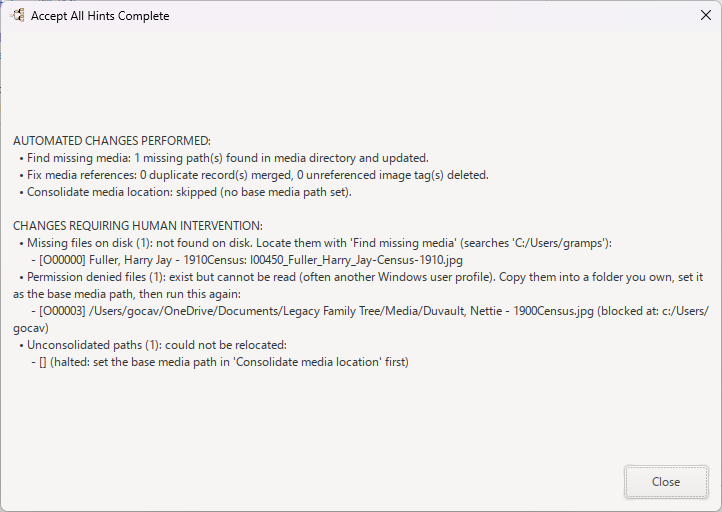
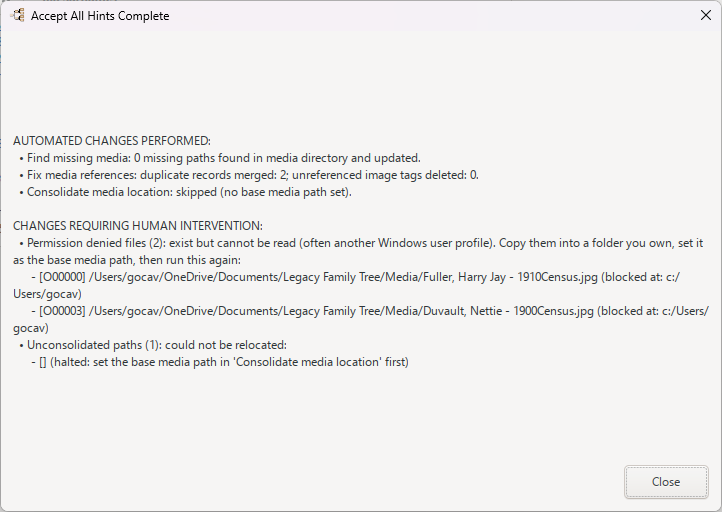
Updated images after AI prompt ran

Changed region(s): [[0.0, 0.4688, 0.9751, 0.5938], [0.1828, 0.2812, 0.6704, 0.375]]

diff --git a/featuredocs/README_gwizard_mediafix.md b/featuredocs/README_gwizard_mediafix.md
@@ -5,96 +5,119 @@ The **GWizard Media Fix** tool helps genealogists clean up media files attached 
 ## Usage
 
 1. Open Gramps and load the Family Tree you want to work on.
-2. Choose **Tools &rarr; Family Tree Processing &rarr; GWizard Media Fix**.
-   ![Open GWizard Media Fix from the Tools menu](images/gwizard_mediafix-main-menu.png)
-3. The **GWizard Media Fix** dialog opens. Choose one of the following actions:
-   * **Generate report** – writes a plain-text report (`GWizardMediaFixReport.txt`) listing missing files, permission problems, absolute paths, non-standard filenames, duplicate references, and unreferenced files.
-   * **Find missing media** – lists media records whose files are not present on disk, suggests matches found in the media base folder, and lets you type or browse to a new path for each.
-   * **Fix media references** – reviews media files shared by multiple records (duplicates) and image tags with no database references, then lets you merge, create copies, or delete records.
-   * **Consolidate media location** – moves or copies media files into the base media directory and renames them using the selected naming template.
-   * **Clean import notes** – removes stale "Records not imported into OBJE" notes left by a Legacy import after the matching media files have been restored.
-   * **Accept all hints** – runs the find-missing, fix-references, and consolidate steps automatically, showing a preview report before applying changes.
-   ![GWizard Media Fix main dialog](images/gwizard_mediafix-main.png)
-4. For most actions, review the preview table, edit any suggested paths as needed, then click **Apply** (or **Accept hints**) to write changes to the database and move or copy the actual files on disk.
-5. When finished, click **_Close** to return to Gramps.
+2. Choose **Tools → Family Tree Processing → GWizard Media Fix**.
+3. The **GWizard Media Fix** dialog opens. It shows one button for each task, plus **Accept all hints** in the action area and **Close** at the bottom right:
+   * **Generate report** — writes a plain-text report listing missing files, permission problems, absolute paths, non-standard filenames, duplicate references, and unreferenced files.
+   * **Find missing media** — lists media records whose files are missing on disk and suggests replacement paths found in the media base folder.
+   * **Fix media references** — reviews media files shared by multiple records and image tags with no database references; lets you merge, create copies, or delete records.
+   * **Consolidate media location** — moves or copies media files into the base media directory using the chosen naming template.
+   * **Clean import notes** — removes stale "Records not imported into OBJE" notes left by a Legacy import.
+   * **Undo last file moves** — reverses the file operations from the last consolidate run.
+   * **Accept all hints** — runs find-missing, fix-references, and consolidate automatically, showing a preview report before applying changes.
+4. Click the button for the task you want to run, then follow the steps in that button's section below.
+5. When you are finished, click **Close** to return to Gramps.
+
+### Generate report
+
+1. From the main dialog, click **Generate report**.
+2. The **Save Media Fix Report** file chooser opens, pre-named `GWizardMediaFixReport.txt` and pointing at the media base folder. Choose the folder and filename, then click **Save**.
+   ![Save Media Fix Report: choose the folder and filename for the report](images/gwizard_mediafix-report-save.png)
+3. The report is written and the **GWizard Media Fix Report** viewer opens showing the full text.
+   ![GWizard Media Fix Report: review the generated plain-text report listing all media issues](images/gwizard_mediafix-report.png)
+4. Close the viewer to return to the main dialog.
 
 ### Find missing media
 
 1. From the main dialog, click **Find missing media**.
-2. The **Find Missing Media** dialog lists each missing media record with its current path and a hint (for example, "Found in media directory: suggest ..." or "Permission denied: ...").
-3. Verify or edit the **New Path** for each record, or click **Accept hints (N)** to fill in the suggested paths automatically.
-4. To restore a file from another folder, click **Copy from folder...**, select the source folder, then click **Apply** to copy the file into the media directory and update the record.
-5. Click **Apply**, then **_Close**.
-   ![Find missing media dialog](images/gwizard_mediafix-find-missing.png)
+2. The **Find Missing Media** dialog opens. It lists each media record whose file is missing on disk, with its current path and a hint (for example, a suggested match found in the media base folder, or "Permission denied").
+   ![Find Missing Media: review each missing record and its suggested replacement path](images/gwizard_mediafix-find-missing.png)
+3. Verify or edit the **New Path** for each record. To restore a file from another folder, click **Copy from folder...**, choose the source folder in the **Select folder containing the missing files** chooser, and review the queued copies.
+4. To fill in all suggested paths at once, click **Accept hints (N)** (N is the number of hinted items).
+5. Click **Apply** to update the database and copy the files into the media directory. A **Media Paths Updated** message confirms the result.
+6. Click **Close** to close the dialog.
 
 ### Fix media references
 
 1. From the main dialog, click **Fix media references**.
-2. The **Fix Media References** dialog shows groups where a single media file is shared by multiple media records, plus image tags with no data references in the database.
-3. For each group, choose a resolution: **Merge** (combine duplicate media records into one keeper), **Create copies** (give each reference its own file), or **Delete** (remove unreferenced media records).
-4. Click **Accept hints (N)** to apply the suggested resolutions, then **Apply** to write the changes.
-5. Click **_Close** when done.
-   ![Fix media references dialog](images/gwizard_mediafix-fix-references.png)
+2. The **Fix Media References** dialog opens. It shows groups where a single media file is shared by multiple media records, plus image tags with no data references in the database.
+   ![Fix Media References: pick Merge, Create copies, or Delete for each duplicate or unreferenced record](images/gwizard_mediafix-fix-references.png)
+3. For each group, choose a resolution: **Merge** (combine duplicate media records into one keeper), **Create copies** (give each reference its own file), or **Delete** (remove unreferenced media records). Media tagged **GWizard: Locked** is skipped.
+4. Click **Accept hints (N)** to apply the suggested resolutions for all groups.
+5. Click **Apply** to write the changes. A **Media References Resolved** message summarizes what was merged, copied, or deleted.
+6. Click **Close** when done.
 
 ### Consolidate media location
 
 1. From the main dialog, click **Consolidate media location**.
-   *Note: If duplicate media references exist, you are prompted to resolve them with **Fix media references** first.*
-2. In the **Consolidate Media Location** dialog, confirm the **Base media path** (browse with the folder button if needed).
-3. Choose a **Naming Template** from the list, or type a custom pattern in the entry field.
-4. Choose the **Naming style**: **Use naming standard** (applies the template) or **Keep original filename**.
-5. Choose the **File operation**: **Move files** (renames the original file) or **Make a copy** (leaves the original untouched).
-6. Click **Accept hints (N)** to populate suggested new paths, review the table, then click **Apply** to move or copy the files and update the database records.
-7. Click **_Close** when done.
-   ![Consolidate media location dialog](images/gwizard_mediafix-consolidate.png)
 
-### Generate a report
+2. The **Consolidate Media Location** dialog opens. Each row shows a media record whose path is not yet consolidated, with a suggested path inside the base media directory.
+   ![Consolidate Media Location: set the base media path, naming template, and file operation](images/gwizard_mediafix-consolidate.png)
+3. Set the options:
+   * **Base media path** — type or browse (folder button opens the **Select media directory** chooser) for the folder Gramps uses for relative media paths. The current value is also shown as a read-only **Media Base Path** label.
+   * **Naming Template** — choose from the combo presets: Reference ID + Community Standard, Community Standard, Reference ID + Document Type, Media ID + Document Type, Media ID + Original Name, Sanitized Original Name, or Community Standard + content hash.
+   * **Naming style** — **Use naming standard** (default) or **Keep original filename**.
+   * **File operation** — **Move files** (default) or **Make a copy**.
+4. Verify or edit the suggested path for each record, or click **Accept hints (N)** to fill in all suggested paths at once.
+5. Click **Apply** to move or copy the files and update the database. A **Media Locations Consolidated** message confirms the result. Files are logged so they can be undone later with **Undo last file moves**.
+6. Click **Close** when done.
 
-1. From the main dialog, click **Generate report**.
-2. A file chooser opens; the default name is `GWizardMediaFixReport.txt`. Choose a location and save the report.
-3. Review the report for items requiring human intervention, such as missing files, permission problems, or unconsolidated paths.
-   ![Generated report](images/gwizard_mediafix-report.png)
+### Clean import notes
+
+1. From the main dialog, click **Clean import notes**.
+2. The **Clean import notes** confirmation dialog opens, listing leftover "Records not imported into OBJE" notes whose media files are now readable.
+   ![Clean import notes: confirm deletion of leftover import-failure notes](images/gwizard_mediafix-clean-import-notes.png)
+3. Click **Delete** to remove the notes (this can be undone with Edit → Undo), or **Cancel** to keep them.
+4. If there are no such notes, a **No stale import notes** message appears instead. Otherwise an **Import notes cleaned** message confirms how many notes were removed.
+
+### Undo last file moves
+
+1. From the main dialog, click **Undo last file moves**.
+2. The **Undo last file moves** confirmation dialog opens, showing the last logged file-move run. Click **Undo moves** to move the files back and repoint the media records, or **Cancel** to abort. Records changed since the run, or locked files, are left alone and listed.
+3. A **File moves undone** message confirms how many files were moved back and records repointed.
+4. If no logged file moves exist, a **No file moves to undo** message appears instead.
+
+### Accept all hints
+
+1. From the main dialog, click **Accept all hints**.
+2. The tool plans the automatic fixes across the find-missing, fix-references, and consolidate steps.
+3. The **Accept all hints - preview** dialog opens showing the planned changes. Review the list, then click **Accept all** to proceed, or **Cancel** to abort.
+   ![Accept all hints - preview: review the planned automatic changes before accepting](images/gwizard_mediafix-accept-all-hints.png)
+4. The fixes run automatically: missing paths are filled, duplicate references are merged or deleted, and media locations are consolidated.
+5. The **Accept All Hints Complete** report opens, summarizing the changes performed and listing any items that still require human intervention (for example, missing files not found, permission-denied files, or unconsolidated paths). It also notes optional stale import notes that can be removed with **Clean import notes**.
+   ![Accept All Hints Complete: summary of automated changes and items needing human intervention](images/gwizard_mediafix-accept-all-hints-complete.png)
+6. Close the report to return to the main dialog.
 
 ## Configure Options
 
-The tool has no separate persistent options window; its controls appear within each sub-dialog:
+The tool has no separate persistent options window; its controls appear in the main window and each sub-dialog:
 
-* **Base media path** – a text entry (with a folder browse button) showing the folder Gramps uses for relative media paths. Appears in the **Find Missing Media** and **Consolidate Media Location** dialogs; the current media base path is also shown as a read-only **Media Base Path** label.
-* **Naming Template** – a combo box with an entry field offering these presets (in the **Consolidate Media Location** dialog):
-  * `{ref_id}_{surname}_{given}-{doc_type}-{year}.{ext}` — Reference ID + Community Standard
-  * `{surname}_{given}-{doc_type}-{year}.{ext}` — Community Standard
-  * `{ref_id}_{doc_type}-{year}.{ext}` — Reference ID + Document Type
-  * `{id}_{doc_type}-{year}.{ext}` — Media ID + Document Type
-  * `{id}_{orig}.{ext}` — Media ID + Original Name
-  * `{orig}.{ext}` — Sanitized Original Name
-  * `{ref_id}_{surname}_{given}-{doc_type}-{year}-{hash}.{ext}` — Community Standard + content hash (never clashes for different files)
-  * Template tokens: `{ref_id}` (reference ID), `{surname}`/`{given}` (linked person's name), `{doc_type}` (media description/type), `{year}` (extracted year), `{orig}` (original filename), `{ext}` (file extension), `{hash}` (short content hash).
-* **Naming style** – radio buttons **Use naming standard** (default) or **Keep original filename**.
-* **File operation** – radio buttons **Move files** (default) or **Make a copy**.
-* **Accept hints (N)** – applies the suggested fixes for all listed items (N is the count of hinted items).
-* **Apply** – writes the reviewed changes to the database and moves/copies files on disk.
-* **Copy from folder...** – in **Find Missing Media**, selects a source folder to restore a missing file from.
-* Per-record resolution in **Fix Media References** – **Merge**, **Create copies**, or **Delete** for each duplicate or unreferenced media record.
-* **_Close** – closes the current dialog.
+* **Generate report, Find missing media, Fix media references, Consolidate media location, Clean import notes, Undo last file moves** — task buttons on the **GWizard Media Fix** main window (one per task).
+* **Accept all hints** — action-area button on the main window that runs the find-missing, fix-references, and consolidate steps automatically with a preview first.
+* **Base media path** — text entry with a folder button opening the **Select media directory** chooser, plus a read-only **Media Base Path** label. Appears in **Find Missing Media** and **Consolidate Media Location**; the changed path is committed to the database when **Apply** is pressed.
+* **Naming Template** — combo box with entry offering these presets (in **Consolidate Media Location**):
+  * Reference ID + Community Standard — `{ref_id}_{surname}_{given}-{doc_type}-{year}.{ext}`
+  * Community Standard — `{surname}_{given}-{doc_type}-{year}.{ext}`
+  * Reference ID + Document Type — `{ref_id}_{doc_type}-{year}.{ext}`
+  * Media ID + Document Type — `{id}_{doc_type}-{year}.{ext}`
+  * Media ID + Original Name — `{id}_{orig}.{ext}`
+  * Sanitized Original Name — `{orig}.{ext}`
+  * Community Standard + content hash — `{ref_id}_{surname}_{given}-{doc_type}-{year}-{hash}.{ext}`
+  Template tokens: `{ref_id}` (reference ID), `{surname}`/`{given}` (linked person's name), `{doc_type}` (media description or type), `{year}` (extracted year), `{orig}` (original filename), `{ext}` (file extension), `{hash}` (short content hash).
+* **Naming style** — radio buttons **Use naming standard** (default) or **Keep original filename** (in **Consolidate Media Location**).
+* **File operation** — radio buttons **Move files** (default) or **Make a copy** (in **Consolidate Media Location**).
+* **Accept hints (N)** — applies the suggested fixes for all listed items at once (N is the count of hinted items). Appears in **Find Missing Media**, **Fix Media References**, and **Consolidate Media Location**.
+* **Apply** — writes the reviewed changes to the database and moves/copies the actual files on disk (in **Find Missing Media**, **Fix Media References**, and **Consolidate Media Location**).
+* **Copy from folder...** — in **Find Missing Media**, selects a source folder to restore missing files by filename; copies are queued until **Apply** is pressed.
+* **Per-record resolution** — in **Fix Media References**, choose **Merge**, **Create copies**, or **Delete** for each duplicate or unreferenced media record using the row selector.
+* **Close** — closes the current dialog.
 
 ## Features
 
-* **Detect missing media** – finds media records whose files cannot be located on disk and suggests possible matches in the media base folder.
-* **Resolve duplicate references** – merges duplicate media records that share the same file, creates separate copies for each reference, or deletes unreferenced media records. Locked media (tagged **GWizard: Locked**) is skipped.
-* **Consolidate media locations** – moves or copies all media files into the configured base directory, applying a consistent, safe filename from the chosen naming template.
-* **Generate a comprehensive report** – produces a human-readable summary of all media issues, including missing files, permission problems, absolute paths, non-standard filenames, duplicate references, unconsolidated paths, and unreferenced files on disk.
-* **Automated "Accept all hints"** – runs the find-missing, fix-references, and consolidate steps in sequence, with a preview report listing any items that still require human intervention.
-* **Clean stale import notes** – removes "Records not imported into OBJE" notes after the corresponding media files have been restored.
-* **Fixed-media tagging** – media that has been fixed is tagged **GWizard: MediaFixed** so it is not reprocessed unnecessarily.
-
-![Open GWizard Media Fix from the Tools menu](images/gwizard_mediafix-main-menu.png)
-
-![GWizard Media Fix main dialog](images/gwizard_mediafix-main.png)
-
-![Find missing media dialog](images/gwizard_mediafix-find-missing.png)
-
-![Fix media references dialog](images/gwizard_mediafix-fix-references.png)
-
-![Consolidate media location dialog](images/gwizard_mediafix-consolidate.png)
-
-![Generated report](images/gwizard_mediafix-report.png)
+* **Detect missing media** — finds media records whose files cannot be located on disk and suggests possible matches in the media base folder.
+* **Resolve duplicate references** — merges duplicate media records that share the same file, creates separate copies for each reference, or deletes unreferenced media records. Locked media (tagged **GWizard: Locked**) is skipped.
+* **Consolidate media locations** — moves or copies media files into the configured base directory, applying a consistent, safe filename from the chosen naming template.
+* **Generate a comprehensive report** — produces a plain-text summary of all media issues, including missing files, permission problems, absolute paths, non-standard filenames, duplicate references, unconsolidated paths, and unreferenced files on disk.
+* **Automated "Accept all hints"** — runs the find-missing, fix-references, and consolidate steps in sequence, with a preview report listing any items that still require human intervention.
+* **Clean stale import notes** — removes "Records not imported into OBJE" notes after the corresponding media files have been restored.
+* **Fixed-media tagging** — media that has been fixed is tagged **GWizard: MediaFixed** so it is not reprocessed unnecessarily.
+* **Undo file moves** — reverses the file operations from the last consolidate run using the saved file-move log.
